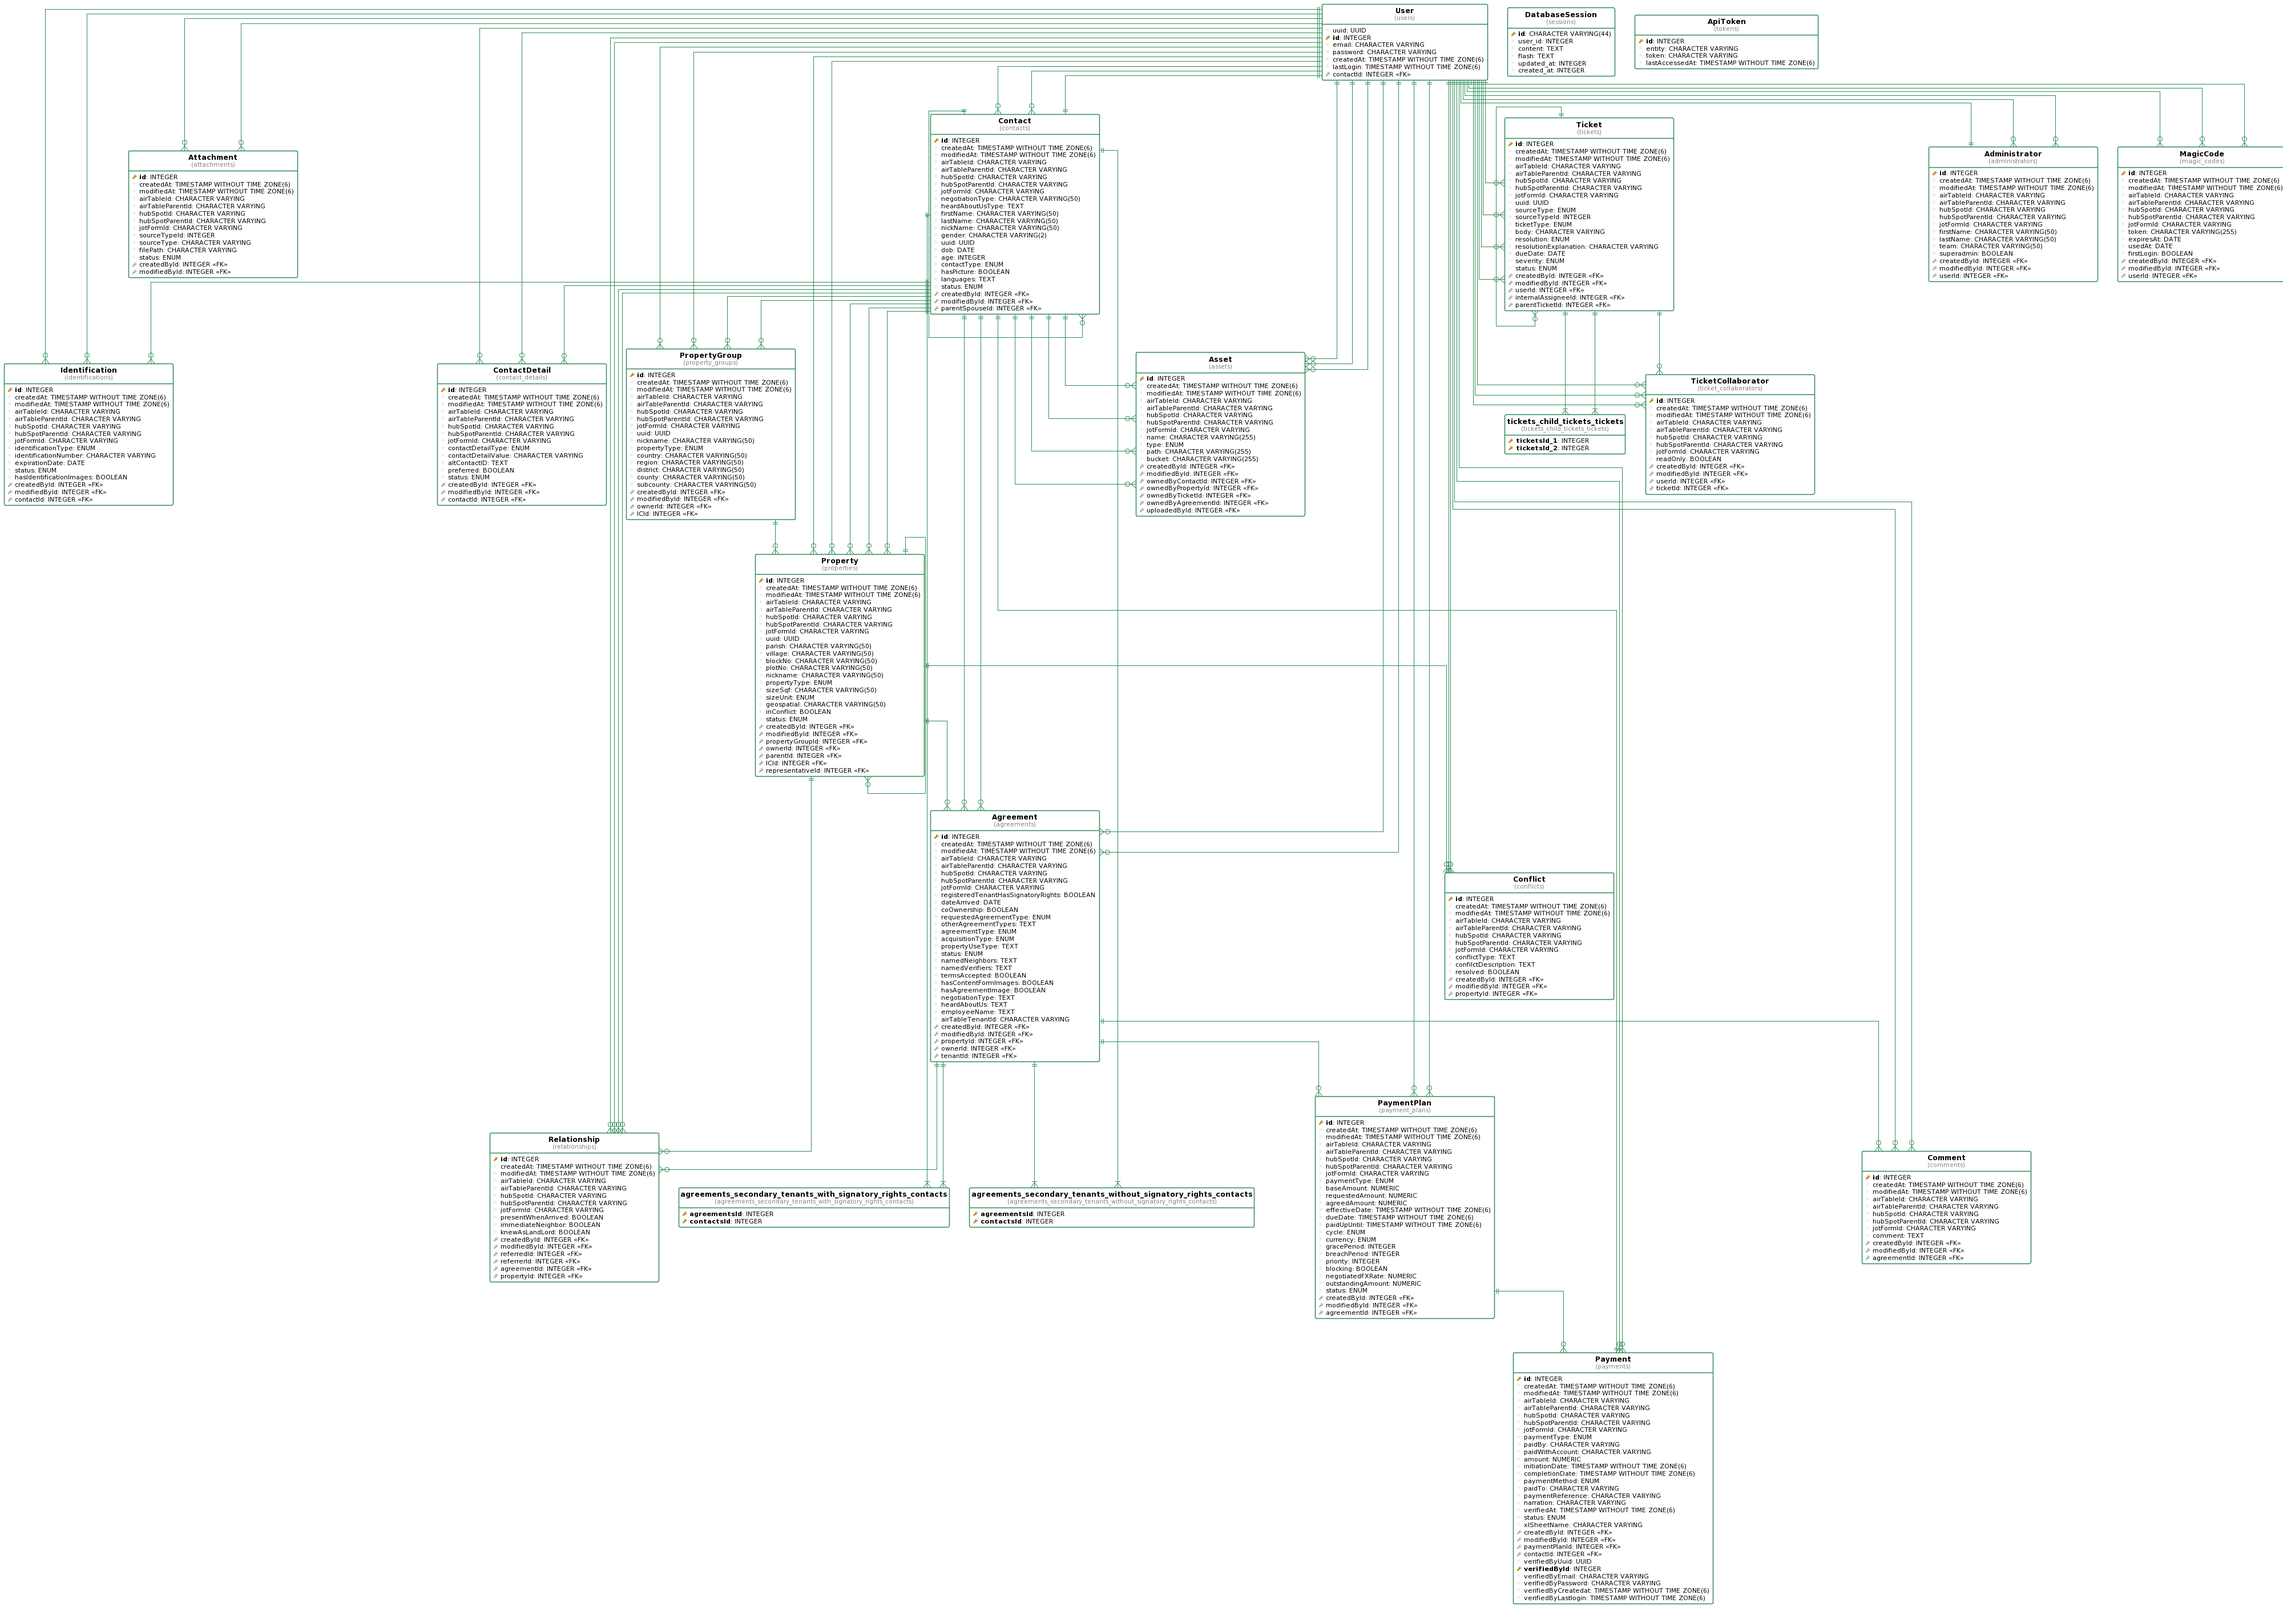
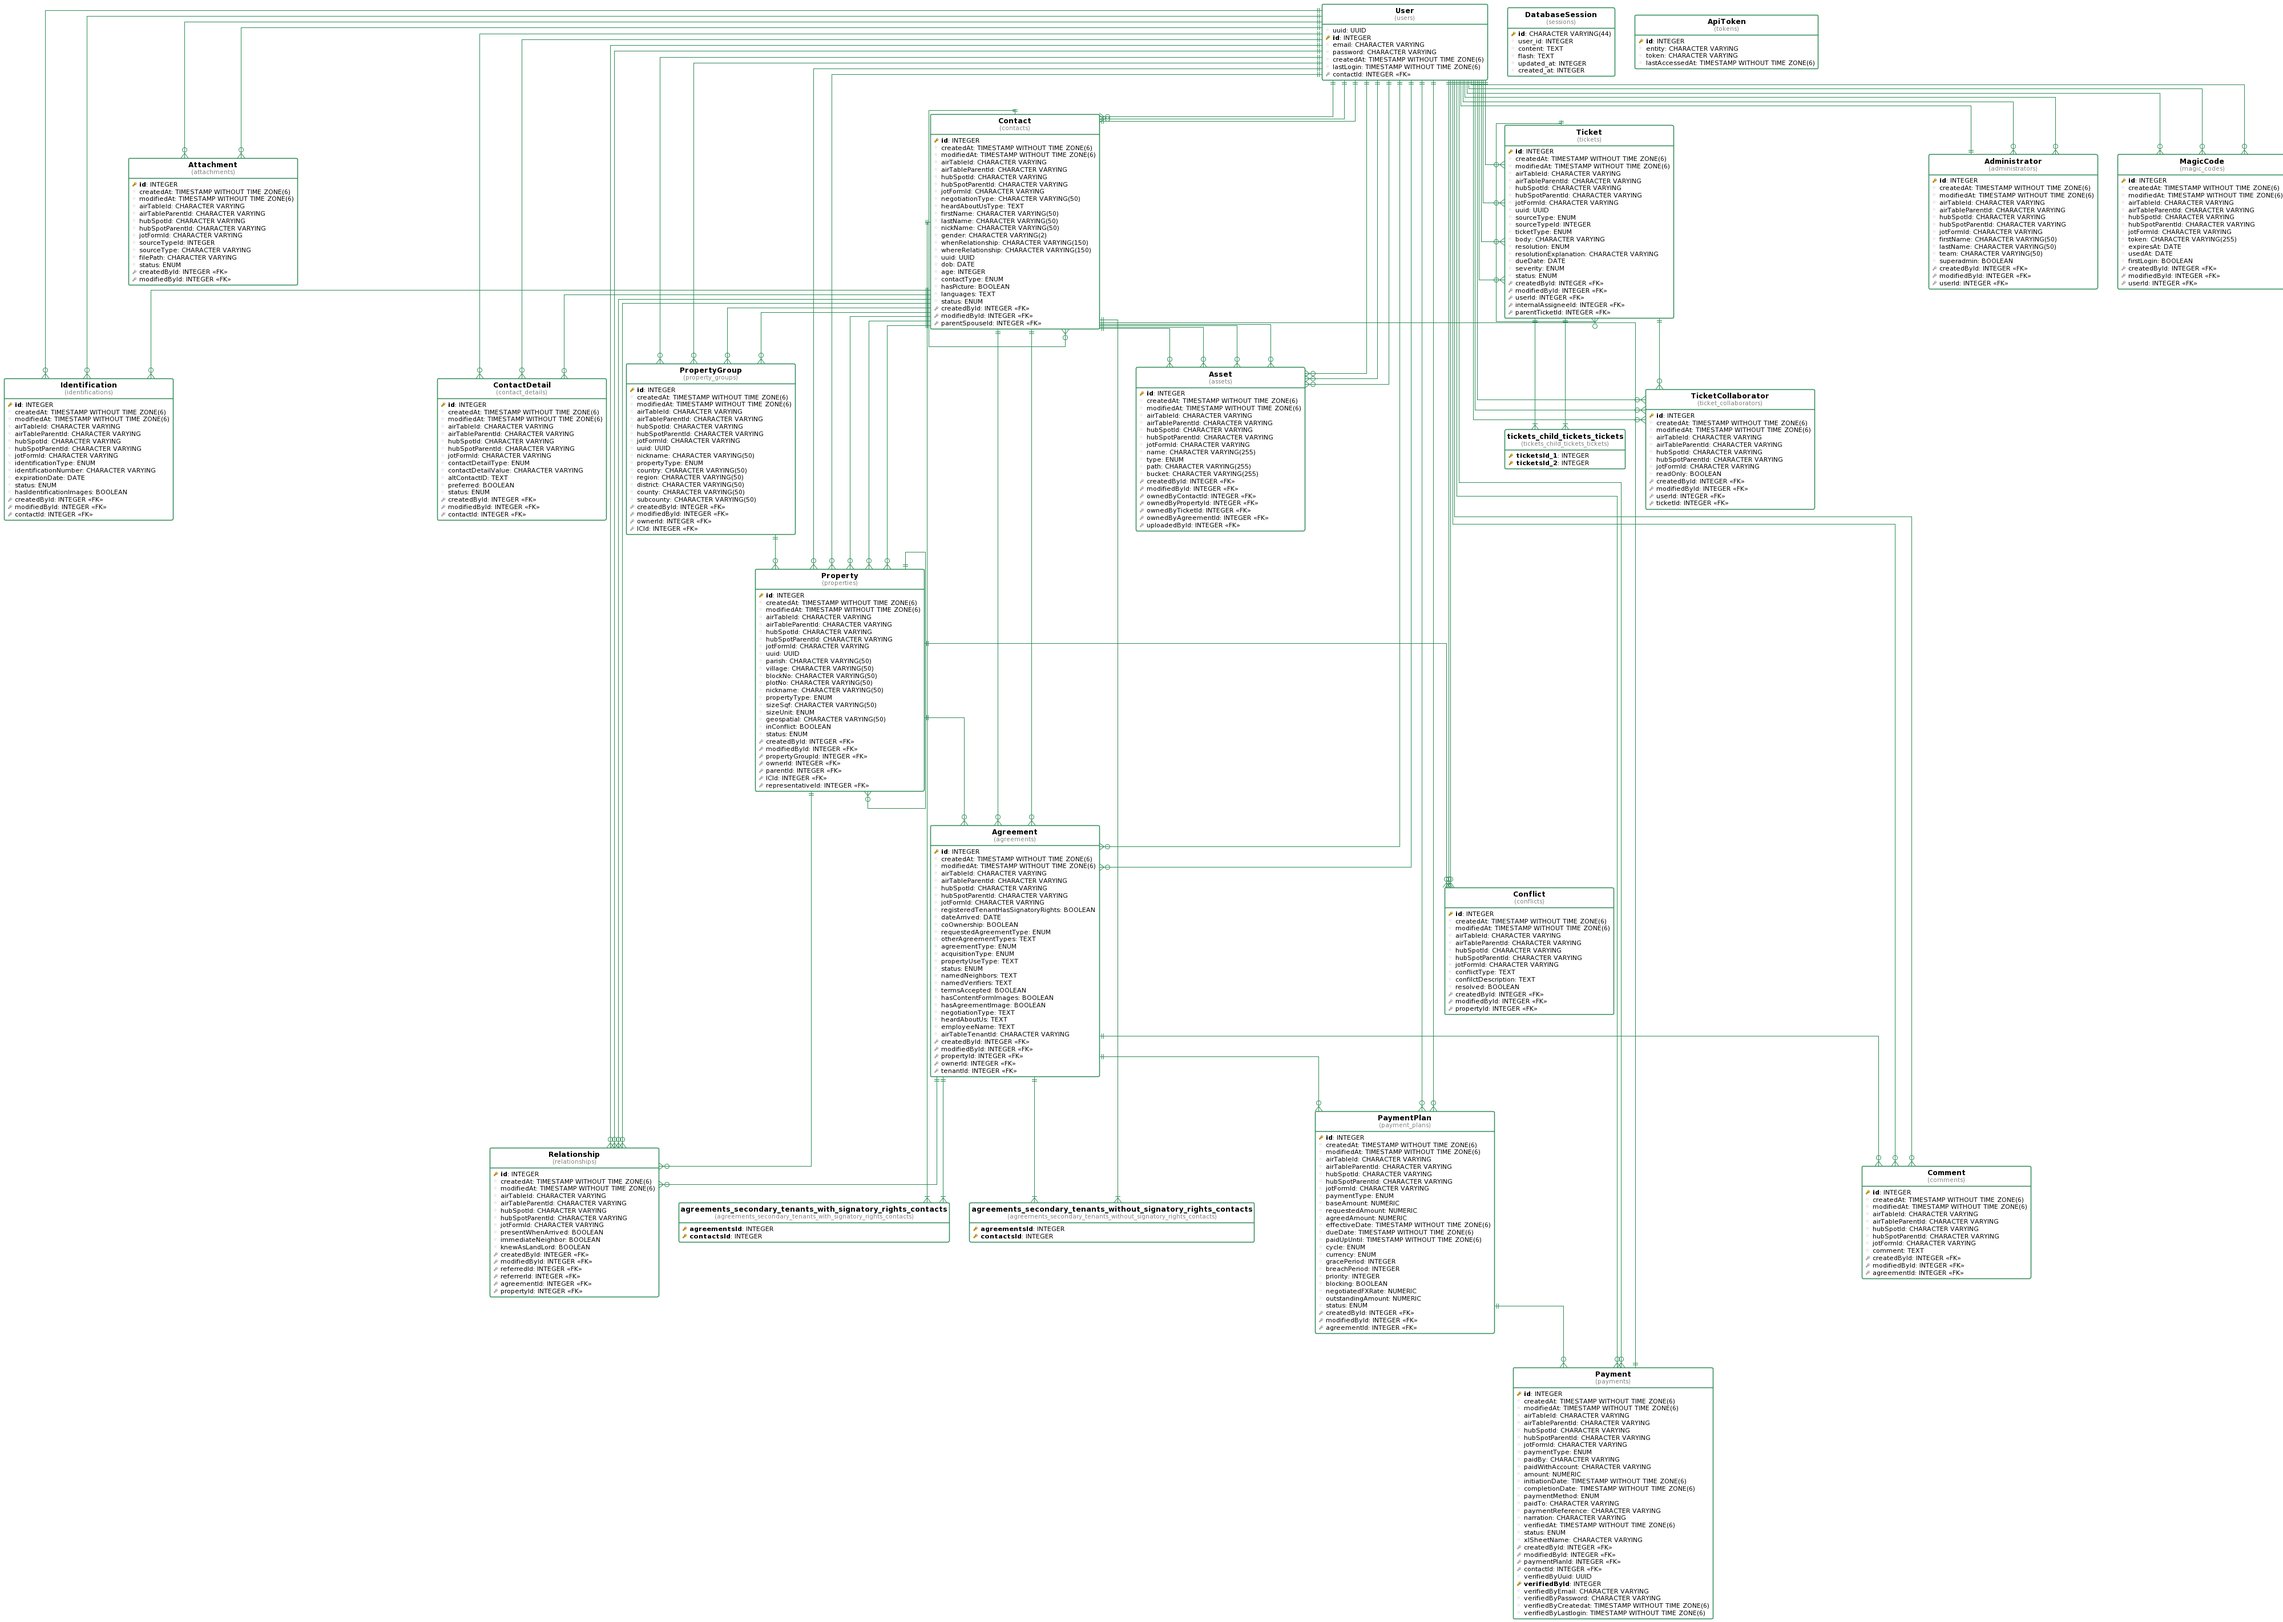
Added whereRelationship to Tenant service

diff --git a/src/app/services/Tenant.ts b/src/app/services/Tenant.ts
@@ -33,6 +33,7 @@ export class TenantService {
       tenantType: contactType,
       languages,
       whenRelationship,
+      whereRelationship,
     } = data;
 
     const tenantContact = new Contact();
@@ -47,6 +48,7 @@ export class TenantService {
     tenantContact.gender = String(gender);
     tenantContact.dob = new Date(String(dateOfBirth));
     tenantContact.whenRelationship = String(whenRelationship);
+    tenantContact.whereRelationship = String(whereRelationship);
 
     if (contactType) {
       // split(',')
